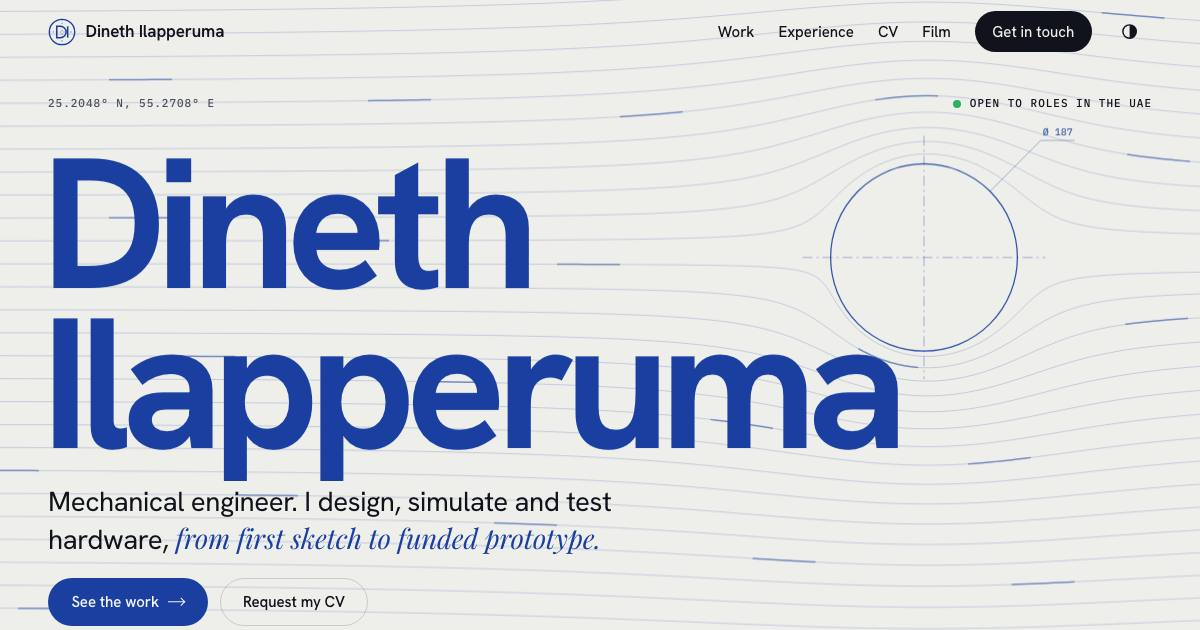
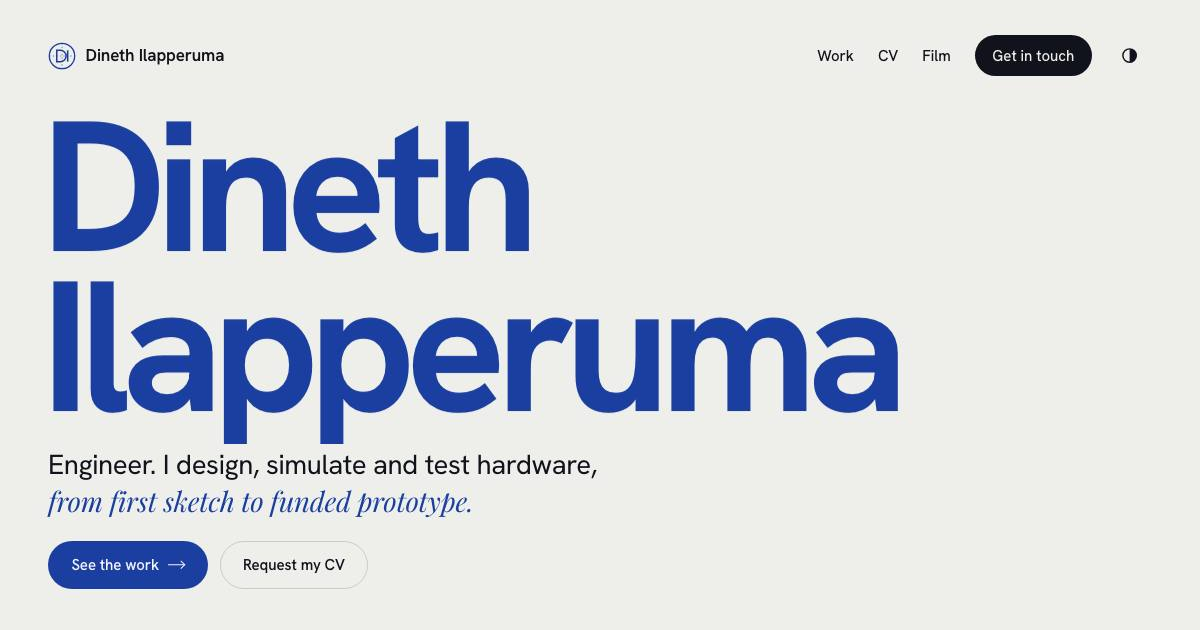
Add Search Console and Analytics settings; refresh the share image
GSC_TOKEN and GA_ID now live at the top of tools/build.mjs. Analytics stays
off until a measurement ID is added. The social share image now shows the
current hero.

Claude-Session: https://claude.ai/code/session_015jqqt4hdCAqW7scvQXpiN1

diff --git a/src/layout.html b/src/layout.html
@@ -8,7 +8,8 @@
 <meta name="author" content="Dineth Ilapperuma">
 <link rel="canonical" href="{{url}}">
 {{robots}}
-<meta name="google-site-verification" content="5ZGcQ6cZ-Qo1Mr-P6DW8xdiWZF5qkNiVAou5xSXQLaA">
+{{gsc}}
+{{analytics}}
 <meta property="og:type" content="website">
 <meta property="og:site_name" content="Dineth Ilapperuma">
 <meta property="og:title" content="{{title}}">

diff --git a/README.md b/README.md
@@ -41,6 +41,8 @@ metrics:  38% = lower peak stress | 2.5× = safety factor
 
 **Change experience, education or skills.** Edit `src/pages/index.html`.
 
+**Search Console and Analytics.** Both are set at the top of `tools/build.mjs`: `GSC_TOKEN` is the verification tag's `content` value, and `GA_ID` is the Google Analytics measurement ID (`G-…`). Leave `GA_ID` empty to keep analytics off.
+
 **Change colours.** Edit the variables under `:root` in `site.css`. Light and dark values sit next to each other.
 
 ## Deploy
